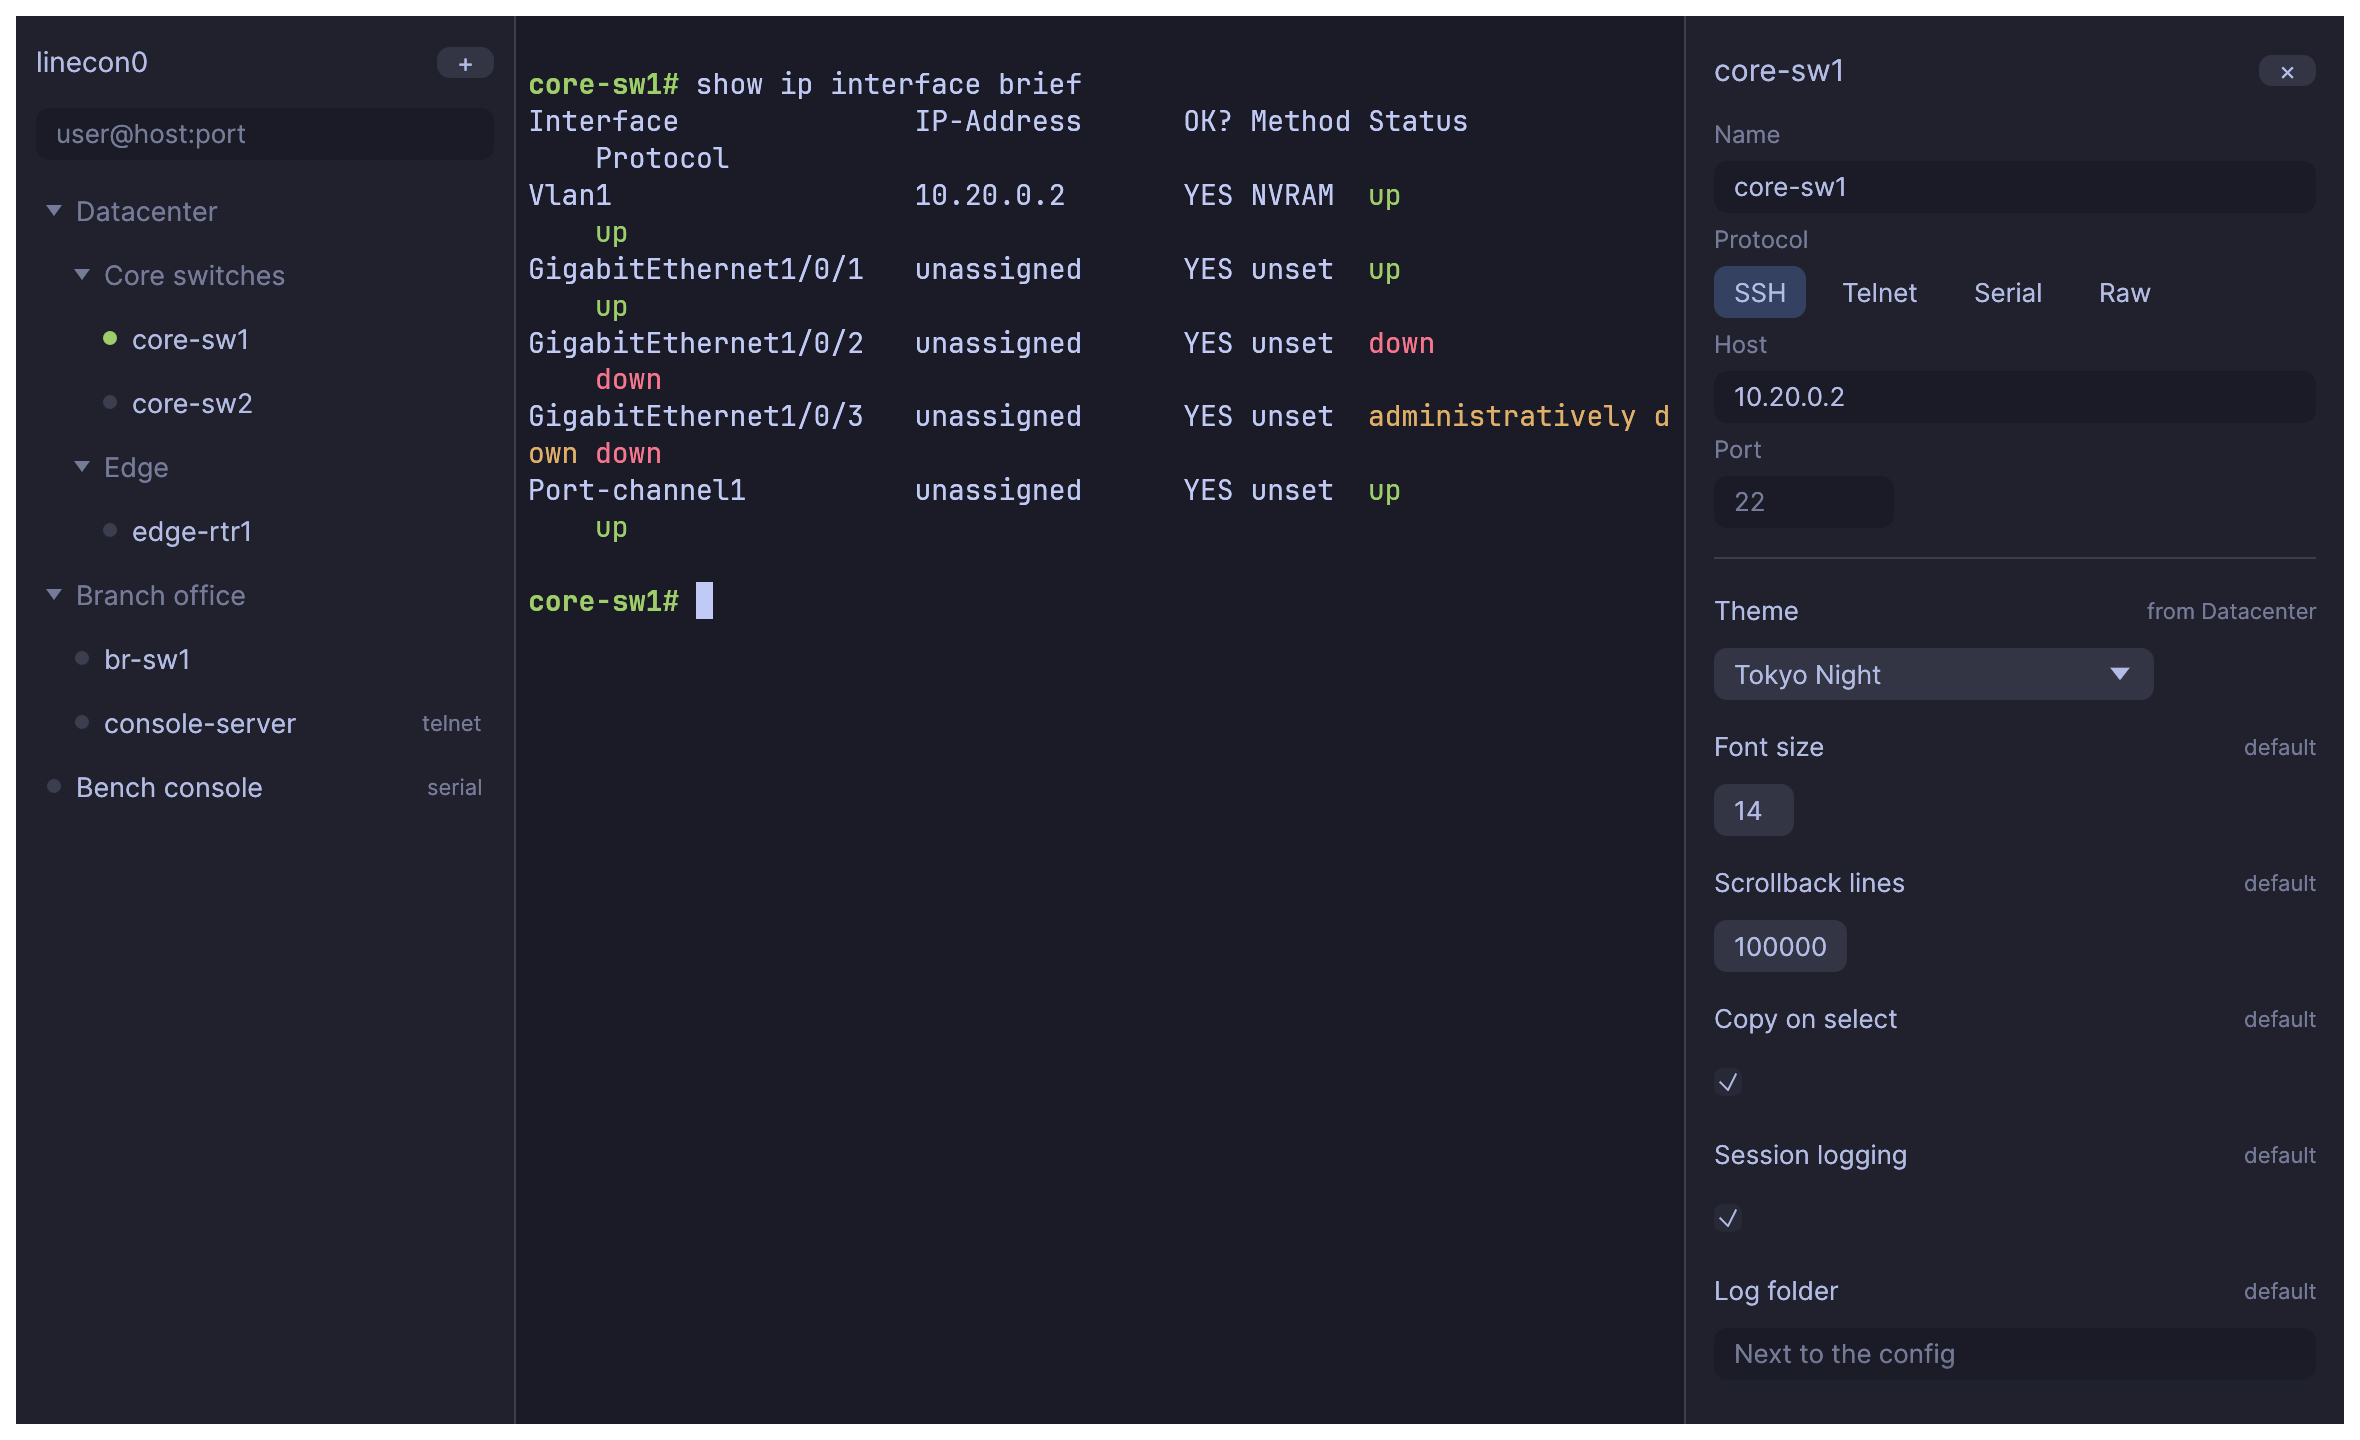
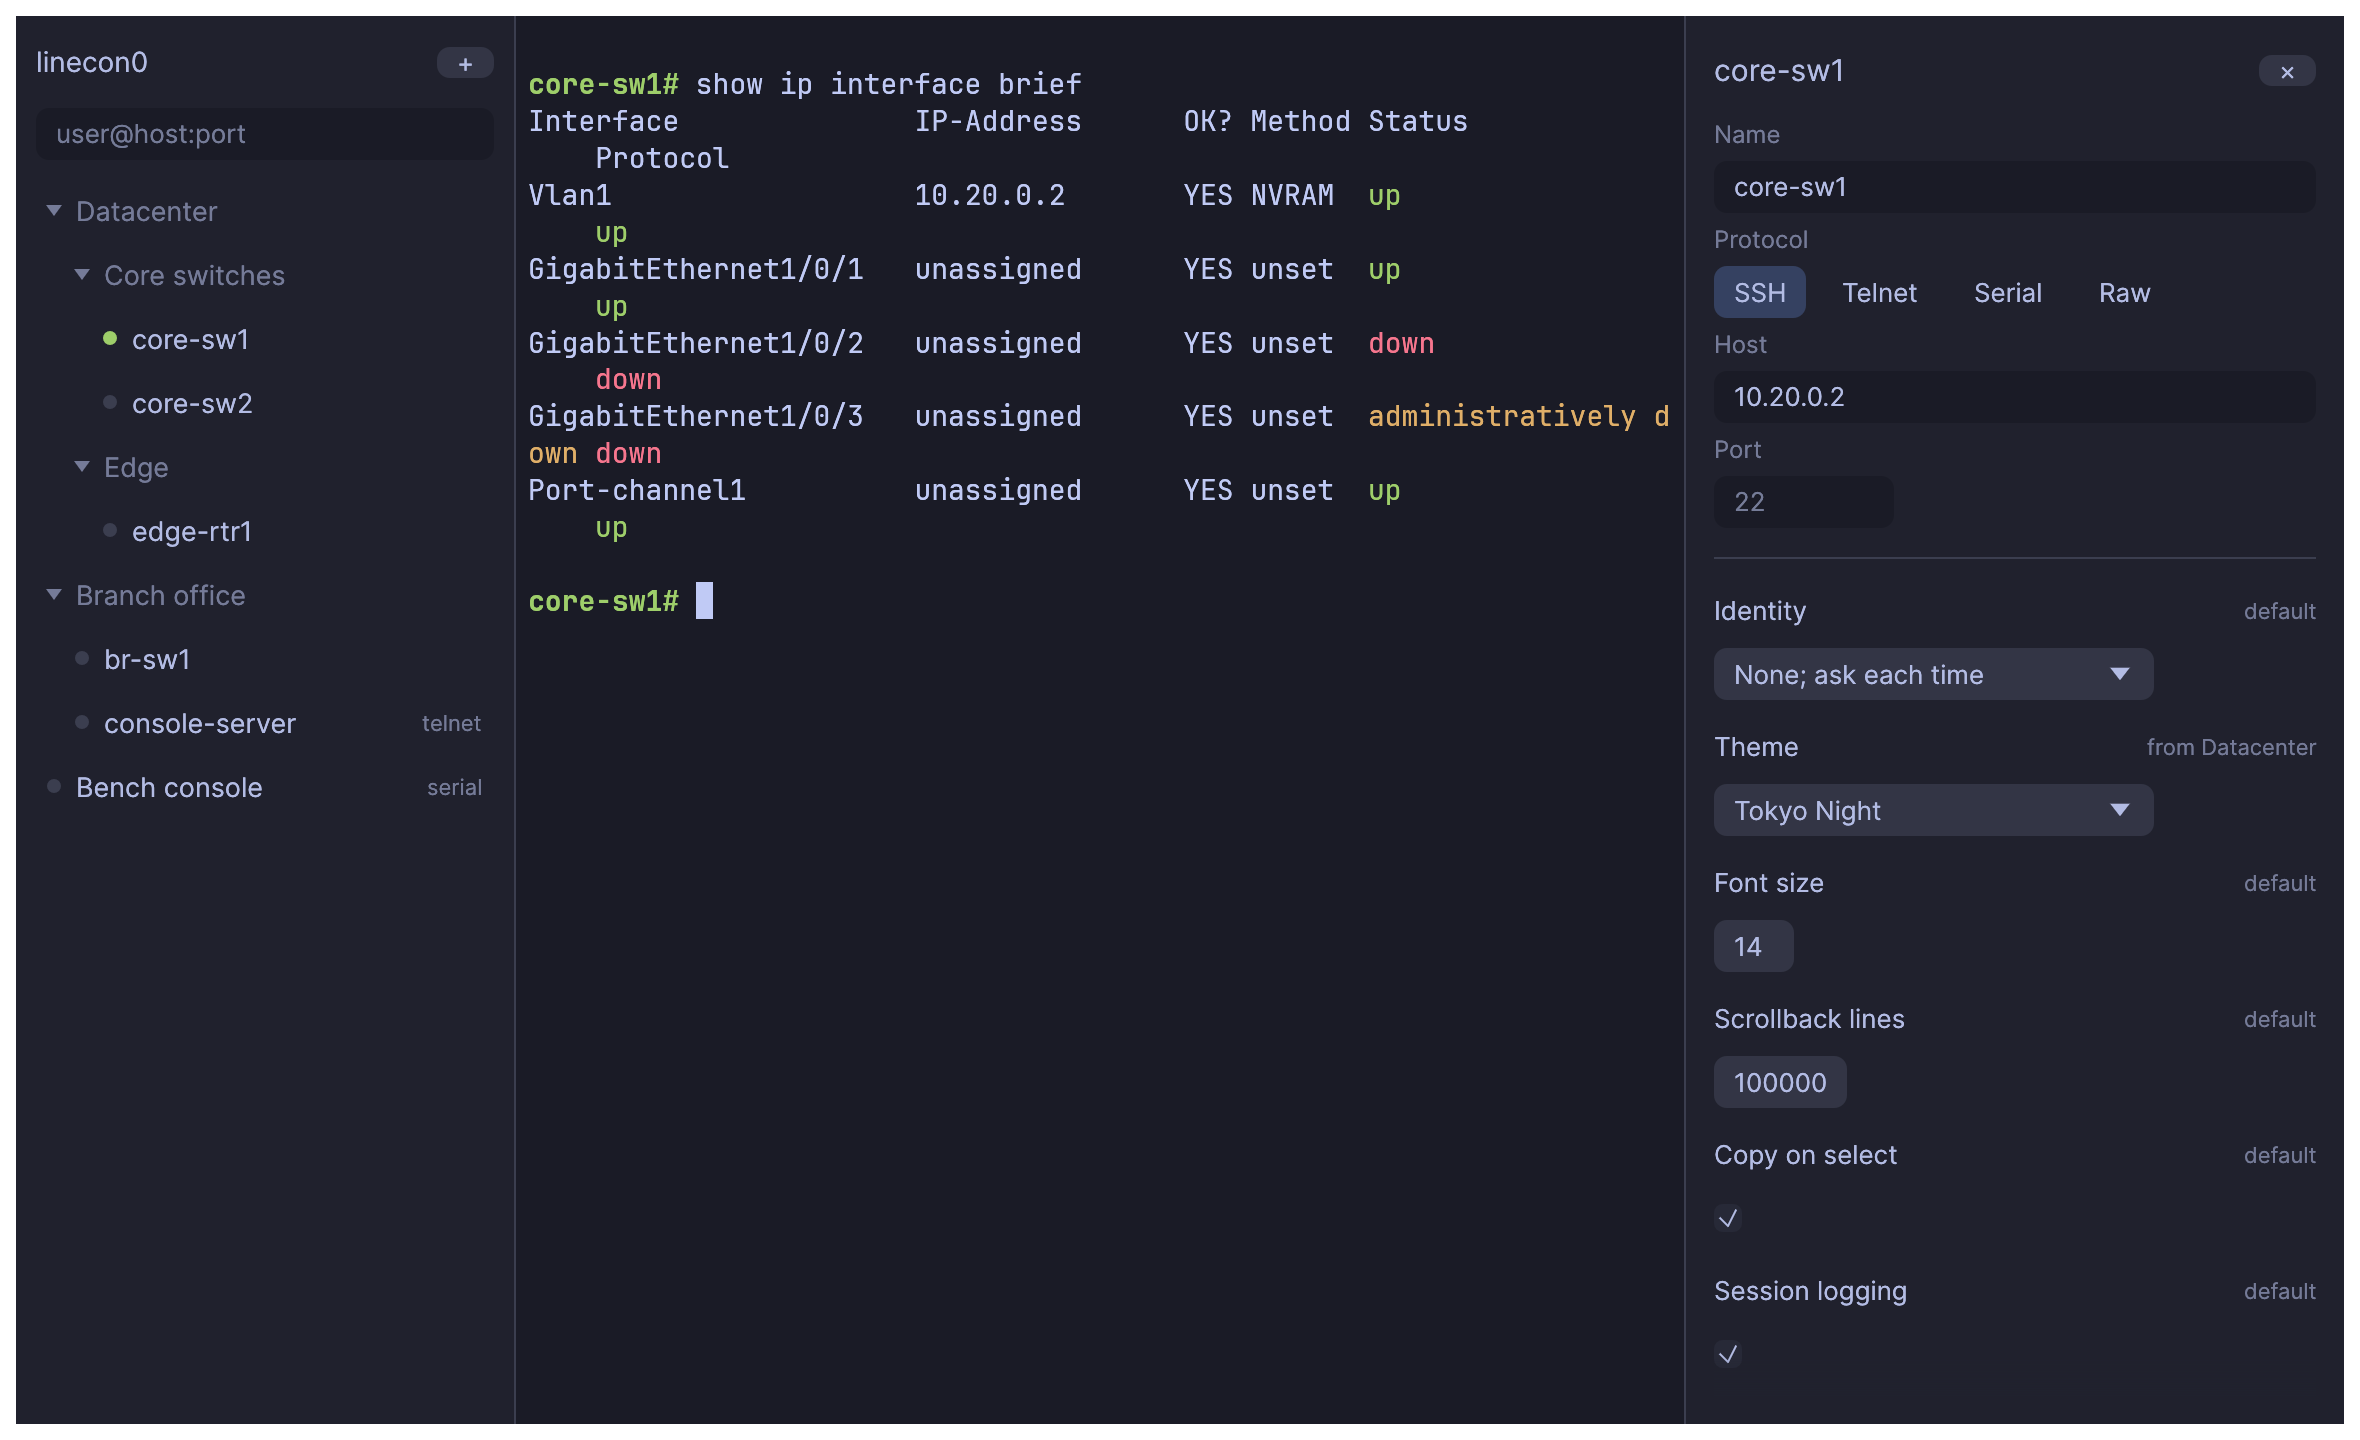
Share snippets through an exported file, and refresh screenshots
Export writes the snippets in scope to a small TOML file, and dropping one on a window adds its snippets to the
selected folder without replacing anything.

diff --git a/crates/linecon/src/app.rs b/crates/linecon/src/app.rs
@@ -132,6 +132,7 @@ enum Command {
     RunSnippet(String),
     ToggleFiles,
     ToggleAgentServer,
+    ExportSnippets,
     SetAgentAccess(Access),
     ImportSshConfig,
     #[cfg(windows)]
@@ -498,6 +499,7 @@ impl App {
             Command::Open(id) => self.open_saved(id),
             Command::RunSnippet(text) => self.run_snippet(&text),
             Command::ToggleFiles => self.toggle_files(),
+            Command::ExportSnippets => self.export_snippets(),
             Command::ToggleAgentServer => {
                 self.config.mcp_enabled = !self.config.mcp_enabled;
                 self.dirty = true;
@@ -573,6 +575,42 @@ impl App {
                 }
             }
         }
+    }
+
+    fn snippet_scope(&self) -> Option<Id> {
+        self.focused_pane()
+            .and_then(|id| self.panes.get(&id))
+            .and_then(|e| e.pane.spec.session_id)
+    }
+
+    fn export_snippets(&mut self) {
+        let snippets = self.config.snippets_for(self.snippet_scope());
+        if snippets.is_empty() {
+            self.error = Some("No snippets here to export.".to_string());
+            return;
+        }
+        let count = snippets.len();
+        let path = crate::sftp_pane::unused_path(&downloads_dir(), "linecon-snippets.toml");
+        let written = linecon_config::import::export_snippets(&snippets)
+            .and_then(|text| std::fs::write(&path, text).map_err(|e| e.to_string()));
+        match written {
+            Ok(()) => self.info = Some(format!("Exported {count} to {}", path.display())),
+            Err(e) => self.error = Some(e),
+        }
+    }
+
+    /// Adds a dropped snippet file to the selected folder, or globally.
+    fn import_snippets(&mut self, snippets: Vec<Snippet>) {
+        let folder = self
+            .selected_node
+            .filter(|id| matches!(self.config.find(*id), Some(Node::Folder(_))));
+        let list = match folder.and_then(|id| self.config.find_mut(id)) {
+            Some(Node::Folder(f)) => &mut f.snippets,
+            _ => &mut self.config.snippets,
+        };
+        let added = linecon_config::import::merge_snippets(list, snippets);
+        self.dirty = true;
+        self.info = Some(format!("Added {added} snippets"));
     }
 
     fn toggle_files(&mut self) {
@@ -831,6 +869,13 @@ impl App {
                     }
                     Err(e) => self.error = Some(format!("{}: {e}", path.display())),
                 }
+                continue;
+            }
+            let snippets = std::fs::read(&path).ok().and_then(|data| {
+                linecon_config::import::parse_snippets(&linecon_config::import::decode_text(&data))
+            });
+            if let Some(snippets) = snippets {
+                self.import_snippets(snippets);
                 continue;
             }
             match linecon_config::import::import_path(&path) {
@@ -1578,6 +1623,11 @@ impl App {
                 Command::ImportRegistry { kitty: true },
             );
         }
+        add(
+            "Export snippets to a file",
+            "share them by dropping it on a window",
+            Command::ExportSnippets,
+        );
         let scope = self
             .focused_pane()
             .and_then(|id| self.panes.get(&id))

diff --git a/crates/linecon-config/src/import.rs b/crates/linecon-config/src/import.rs
@@ -592,9 +592,76 @@ pub fn import_path(path: &Path) -> Result<Option<ImportResult>, String> {
     Ok(None)
 }
 
+// ------------------------------------------------------------------- Snippets
+
+/// Marks a file as shared snippets, so it can be recognised when dropped.
+const SNIPPET_FORMAT: &str = "linecon-snippets-1";
+
+#[derive(serde::Serialize, serde::Deserialize)]
+struct SnippetFile {
+    format: String,
+    snippets: Vec<crate::model::Snippet>,
+}
+
+pub fn export_snippets(snippets: &[&crate::model::Snippet]) -> Result<String, String> {
+    let file = SnippetFile {
+        format: SNIPPET_FORMAT.to_string(),
+        snippets: snippets.iter().map(|s| (*s).clone()).collect(),
+    };
+    toml::to_string_pretty(&file).map_err(|e| e.to_string())
+}
+
+/// Reads a snippet file. `None` means this is not one.
+pub fn parse_snippets(text: &str) -> Option<Vec<crate::model::Snippet>> {
+    let file: SnippetFile = toml::from_str(text).ok()?;
+    (file.format == SNIPPET_FORMAT).then_some(file.snippets)
+}
+
+/// Adds snippets to a list, skipping exact duplicates. Returns how many were new.
+pub fn merge_snippets(
+    into: &mut Vec<crate::model::Snippet>,
+    new: Vec<crate::model::Snippet>,
+) -> usize {
+    let mut added = 0;
+    for snippet in new {
+        if !into.contains(&snippet) {
+            into.push(snippet);
+            added += 1;
+        }
+    }
+    added
+}
+
 #[cfg(test)]
 mod tests {
     use super::*;
+
+    #[test]
+    fn snippets_round_trip_and_merge_without_duplicates() {
+        use crate::model::Snippet;
+        let a = Snippet {
+            name: "health".into(),
+            text: "show env\nshow proc cpu\n".into(),
+        };
+        let b = Snippet {
+            name: "quotes \"here\"".into(),
+            text: "echo 'x'".into(),
+        };
+        let text = export_snippets(&[&a, &b]).unwrap();
+        assert_eq!(parse_snippets(&text).unwrap(), [a.clone(), b.clone()]);
+        let mut list = vec![a.clone()];
+        assert_eq!(merge_snippets(&mut list, vec![a.clone(), b.clone()]), 1);
+        assert_eq!(list, [a.clone(), b]);
+        // Same name with different text is a different snippet, and nothing is replaced.
+        let changed = Snippet {
+            name: "health".into(),
+            text: "other".into(),
+        };
+        assert_eq!(merge_snippets(&mut list, vec![changed]), 1);
+        assert_eq!(list[0], a);
+        assert!(parse_snippets("format = \"something-else\"\nsnippets = []\n").is_none());
+        assert!(parse_snippets("Host x\n  User y\n").is_none());
+    }
 
     const SSH: &str = "\
 # defaults\n\

diff --git a/specs/010-snippet-sharing/spec.md b/specs/010-snippet-sharing/spec.md
@@ -1,0 +1,9 @@
+# Feature Specification: Snippet Sharing
+
+**Status**: Draft | **Created**: 2026-11-03
+
+- **FR-001** Export the snippets in scope for the focused session to a small readable file.
+- **FR-002** Dropping such a file on the window adds its snippets to the selected folder, or globally.
+- **FR-003** Duplicates by name and text are skipped, and nothing existing is replaced.
+
+**SC-001** Round-trip, duplicate and bad-file cases are unit tested.

diff --git a/docs/STATUS.md b/docs/STATUS.md
@@ -28,11 +28,13 @@
 
 - MCP server: off by default, loopback with a token, per-pane read or control that is never saved.
 
+- Snippet sharing by exported file.
+
 ## In progress
-- Next: snippet sharing, then the analyze step again.
+- Nothing. The requirements list is complete, pending real desktop testing.
 
 ## Next
-- Snippet sharing.
+- Whatever real use of the window turns up.
 
 ## Blocked
 - Nothing.

diff --git a/README.md b/README.md
@@ -24,6 +24,10 @@ what was allowed, and can allow legacy algorithms with one click:
 
 ![Negotiation failure report](docs/screenshots/failure.png)
 
+A file browser opens on request, on the same connection settings:
+
+![SFTP file browser](docs/screenshots/files.png)
+
 Early development; see [docs/STATUS.md](docs/STATUS.md).
 
 ## Install

diff --git a/specs/010-snippet-sharing/plan.md b/specs/010-snippet-sharing/plan.md
@@ -1,0 +1,3 @@
+# Implementation Plan: Snippet Sharing
+
+A TOML file with a marker, recognised by content like other dropped files.

diff --git a/specs/010-snippet-sharing/tasks.md b/specs/010-snippet-sharing/tasks.md
@@ -1,0 +1,3 @@
+# Tasks: Snippet Sharing
+
+- [X] T001 Export and import with tests, palette command and drop handling
